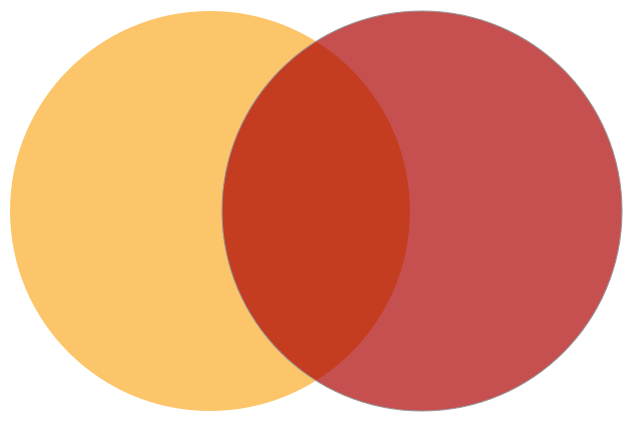
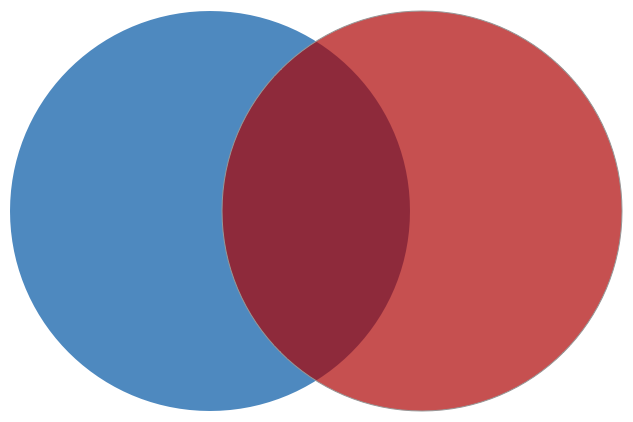
Home page finished, started work on wider device width page

diff --git a/new-site/index.html b/new-site/index.html
@@ -1,28 +1,30 @@
 <!doctype=HTML>
 <html lang='en'>
 	<head>
-		<script type="text/javascript" src="//use.typekit.net/auv1kqp.js"></script>
-		<script type="text/javascript">try{Typekit.load();}catch(e){}</script>
+		<!--<script type="text/javascript" src="//use.typekit.net/auv1kqp.js"></script>
+		<script type="text/javascript">try{Typekit.load();}catch(e){}</script>-->
 		<title>Natalie D. Kane - Art and Web Design</title>
 		<meta charset="utf-8">
 		<link rel='stylesheet' href='/reset.css'>
 		<link rel='stylesheet' href='new-stylesheet.css'>
+		<link href='http://fonts.googleapis.com/css?family=Lato:400,700,900' rel='stylesheet' type='text/css'>
+		<link href='http://fonts.googleapis.com/css?family=Merriweather+Sans' rel='stylesheet' type='text/css'>
 		<meta name='viewport' content='width=device-width'>
 	</head>
 
 	<body>
 
 		<header>
-		<h1><img class="header-image" src="images/red-circles.png"></h1>
+		<h1><img class="header-image" src="images/home-circles.png"></h1>
 		<h1>Natalie D. Kane</h1>
 
 		<nav>
 			<ul>
-				<li>Home</li>
-				<li>About</li>
-				<li>Blog</li>
-				<li>Essays</li>
-				<li>Portfolio</li>
+				<li><a class="home" href="/">Home</a></li>
+				<li><a class="about" href="/about">About</a></li>
+				<li><a class="blog" href="/blog">Blog</a></li>
+				<li><a class="essays" href="/essays">Essays</a></li>
+				<li><a class="portfolio" href="/portfolio">Portfolio</a></li>
 			</ul>
 		</nav>
 
@@ -30,7 +32,7 @@
 
 		<p>I’m interested with developing my craft with creative people who share my love for Responsive and Semantic Web Design. If you’d like to work with me, get in touch!</p>
 
-		<p>I learnt how to do this Web thing through my lessons with Aral Balkan. We kept track of our Content Out Web Development lessons so that you can learn too.</p>
+		<p>I learnt how to do this Web thing through my lessons with Aral Balkan. We kept track of our <a class="blue" href="/contentoutwebdev">Content Out Web Development</a> lessons so that you can learn too.</p>
 
 		<p>Questions? You can <a class='red' href="mailto:tallie.kane@gmail.com">email me</a>, or find me on <a class='red' href="http://twitter.com/nd_kane">Twitter</a></p>
 

diff --git a/new-site/new-stylesheet.css b/new-site/new-stylesheet.css
@@ -1,6 +1,6 @@
 body
 {
-	font-family: adelle, Georgia, serif;
+	font-family: 'Merriweather Sans', adelle, Georgia, serif;
 	line-height: 24px;
 	max-width: 600px;
 	margin-left: 1.5rem;
@@ -15,7 +15,11 @@ img.header-image
 
 nav
 {
+	border-top: dashed 1px #55ACE6;
+	border-bottom: dashed 1px #55ACE6;
 	margin-bottom: 1.5rem;
+	padding-top: 0.5rem;
+	padding-bottom: 0.5rem;
 }
 
 ul
@@ -26,12 +30,14 @@ ul
 li
 {
 	display: inline;
-	margin-left: 0.6rem;
-	margin-right: 0.6rem;
+	margin-left: 0.5rem;
+	margin-right: 0.5rem;
 }
 
 h1
 {
+	font-family: 'Lato', adelle, Georgia, serif;
+	font-weight: 700;
 	font-size: 2.5rem;
 	text-align: center;
 	margin-top: 1rem;
@@ -40,15 +46,19 @@ h1
 
 p
 {
+	text-align: justify;
+	-webkit-hyphens: auto;
+	-moz-hyphens: auto;
+	hyphens: auto;
 	font-size: 1rem;
 	line-height: 1.5rem;
-	margin-top: 1rem;
-	margin-bottom: 1rem;
+	margin-top: 1.5rem;
+	margin-bottom: 1.5rem;
 }
 
 p.colophon
 {
-	border-top: solid 1px black;
+	border-top: dashed 1px #55ACE6;
 	text-align: center;
 	padding-top: 1rem;
 }
@@ -56,9 +66,74 @@ p.colophon
 a
 {
 	text-decoration: none;
+	color: black;
+}
+
+a:hover.home
+{
+	color: #B50000;
+}
+
+a:hover.about
+{
+	color: orange;
+}
+
+a:hover.blog
+{
+	color: #0A69A8;
+}
+
+a:hover.essays
+{
+	color: #BD0D91;
+}
+
+a:hover.portfolio
+{
+	color: #1D6B00;
 }
 
 a.red
 {
 	color: #B50000;
+}
+
+a.blue
+{
+	color: #0A69A8;
+}
+
+
+@media all and (min-width: 650px)
+{
+
+	body
+	{
+		margin-right: auto;
+		margin-left: auto;
+	}
+
+	h1
+	{
+		font-size: 3rem;
+		margin-top: 2.5rem;
+		margin-bottom: 2.5rem;
+	}
+
+	li
+	{
+	font-size: 1.25rem;
+	display: inline;
+	margin-left: 1rem;
+	margin-right: 1rem;
+	}
+
+	p{
+		font-size: 1.25rem;
+		line-height: 2rem;
+		margin-top: 2rem;
+		margin-bottom: 2rem;
+	}
+
 }
